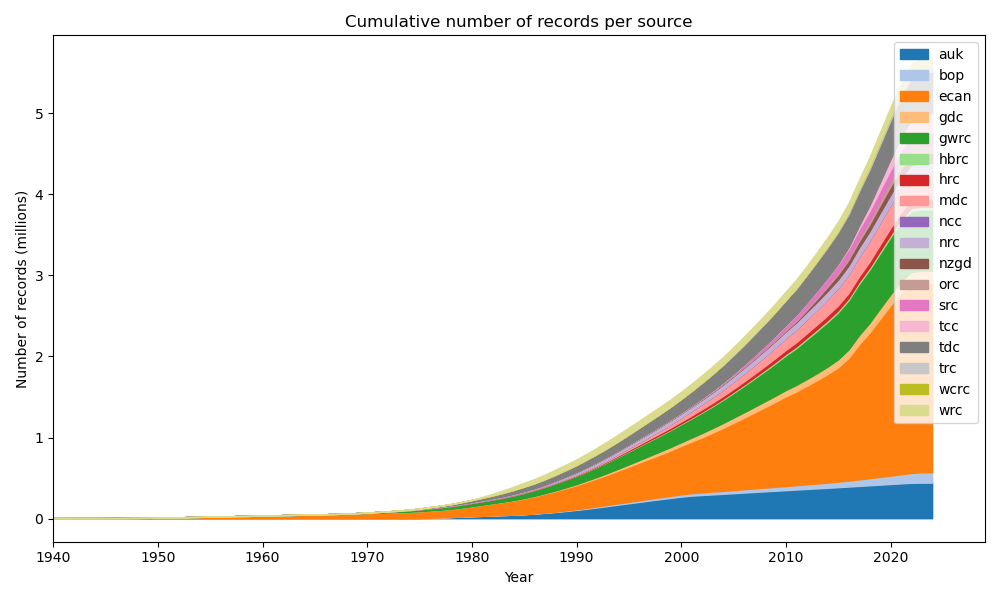
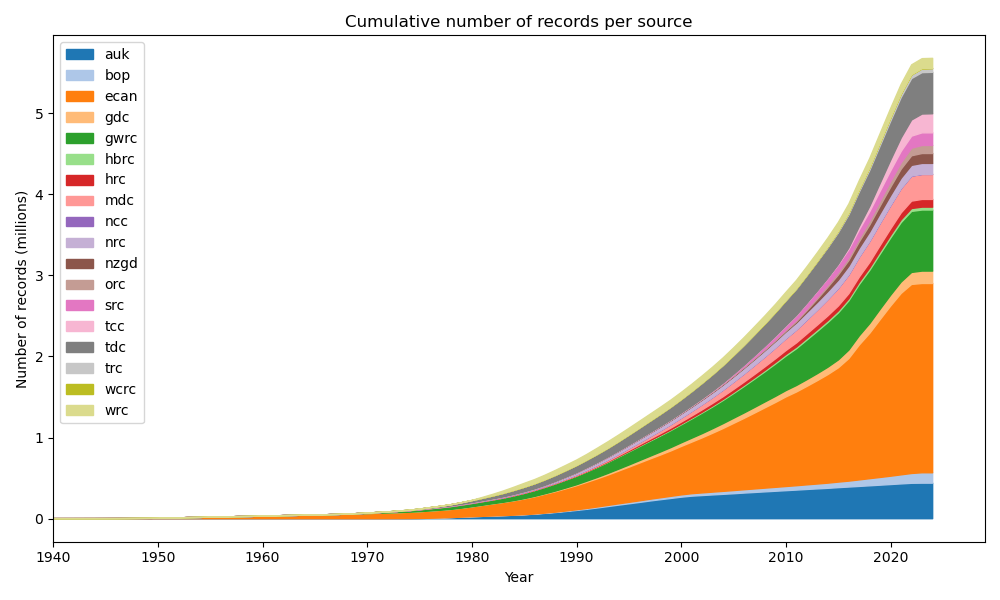
manage review comments on figures

Changed region(s): [[0.868, 0.06, 0.992, 0.72], [0.062, 0.06, 0.155, 0.72]]

diff --git a/build_dataset/update_technial_note/update_tech_note.py b/build_dataset/update_technial_note/update_tech_note.py
@@ -14,7 +14,7 @@ docs_build_dir = Path(__file__).parents[2].joinpath('docs_build')
 assert docs_build_dir.exists(), f'{docs_build_dir} does not exist. should not get here'
 
 
-def update_tech_note(wl_data, metadata, base_outdir=docs_build_dir):
+def update_tech_note(wl_data, metadata, base_outdir=docs_build_dir, figs_only=False):
     """
     Update the technical note with the latest data statistics
     :param wl_data:
@@ -27,33 +27,40 @@ def update_tech_note(wl_data, metadata, base_outdir=docs_build_dir):
     base_outdir.joinpath('_static').mkdir(exist_ok=True)
     with open(base_outdir.joinpath('last_updated.rst'), 'w') as f:
         f.write(f':Data Last updated: {datetime.date.today().isoformat()}')
+    if not figs_only:
+        print('updating tables')
+        # depth to water statistics
+        hist_sd(outdir=base_outdir, wd=wl_data, md=metadata)
+        exceedance_prob(outdir=base_outdir, wd=wl_data, md=metadata)
 
-    # depth to water statistics
-    hist_sd(outdir=base_outdir, wd=wl_data, md=metadata)
-    exceedance_prob(outdir=base_outdir, wd=wl_data, md=metadata)
+        # summary data
+        overview_table, by_source_table = get_data_stats(wl_data, metadata)
+        for k in overview_table.index:
+            if pd.api.types.is_integer(overview_table.loc[k]):
+                overview_table.loc[k] = f'{overview_table.loc[k]:,d}'
+            elif pd.api.types.is_float(overview_table.loc[k]):
+                overview_table.loc[k] = f'{overview_table.loc[k]:,.2f}'
 
-    # summary data
-    overview_table, by_source_table = get_data_stats(wl_data, metadata)
-    for k in overview_table.index:
-        if pd.api.types.is_integer(overview_table.loc[k]):
-            overview_table.loc[k] = f'{overview_table.loc[k]:,d}'
-        elif pd.api.types.is_float(overview_table.loc[k]):
-            overview_table.loc[k] = f'{overview_table.loc[k]:,.2f}'
-
-    write_rst_table_with_tabulate(overview_table, base_outdir.joinpath('tables/full_dataset_summary.rst'),
-                                  'Overview of the dataset')
-    write_rst_table_with_tabulate(by_source_table, base_outdir.joinpath('tables/by_source_summary.rst'),
-                                  'Data summary by source')
+        write_rst_table_with_tabulate(overview_table, base_outdir.joinpath('tables/full_dataset_summary.rst'),
+                                      'Overview of the dataset')
+        write_rst_table_with_tabulate(by_source_table, base_outdir.joinpath('tables/by_source_summary.rst'),
+                                      'Data summary by source')
+    print('creating running totals')
     running_totals = get_running_totals(wl_data)
     for nm, fig in running_totals.items():
         fig.savefig(base_outdir.joinpath('_static', f'{nm}.png'))
         plt.close(fig)
+    print('saved running totals, now creating density and points in dist')
 
-    density_calc_sites(metadata)
+    if not figs_only:
+        density_calc_sites(metadata)
+        npoints_in_dist_calc_sites(metadata)
+
     plot_density()
 
-    npoints_in_dist_calc_sites(metadata)
+    print('saved density, now creating points in dist')
     plot_points_in_dist()
+    print('saved points in dist')
 
 
 if __name__ == '__main__':
@@ -61,6 +68,7 @@ if __name__ == '__main__':
     from komanawa.nz_depth_to_water.get_data import get_nz_depth_to_water
 
     water_level_data, metadata = get_nz_depth_to_water()
-    update_tech_note(water_level_data, metadata)
+    print('update tech note')
+    update_tech_note(water_level_data, metadata, figs_only=True)
 
     pass

diff --git a/build_dataset/update_technial_note/data_stats.py b/build_dataset/update_technial_note/data_stats.py
@@ -13,6 +13,7 @@ import matplotlib.pyplot as plt
 from pathlib import Path
 import warnings
 
+from matplotlib.ticker import StrMethodFormatter
 
 def load_data():
     wd = pd.read_hdf(project_dir.joinpath('Data/gwl_data/final_water_data.hdf'), 'wl_store_key')
@@ -208,14 +209,15 @@ def get_running_totals(wd):
     outfigs = {}
     fig, ax = plt.subplots(figsize=(10, 6))
     # plot the cumulative number of records
-    ax.plot(cumulative_n_records['year'], cumulative_n_records['depth_to_water'] * 1e-6, label='Cumulative n records',
+    ax.plot(cumulative_n_records['year'], cumulative_n_records['depth_to_water'] * 1e-6, label='Cumulative N records',
             ls='--',
             color='b')
     ax2 = ax.twinx()
-    ax2.plot(cumulative_n_sites['year'], cumulative_n_sites['site_name'], label='Cumulative n sites', ls='-', color='r')
+    ax2.plot(cumulative_n_sites['year'], cumulative_n_sites['site_name'], label='Cumulative N sites', ls='-', color='r')
     ax.set_xlabel('Year')
-    ax.set_ylabel('Cumulative n records (millions)')
-    ax2.set_ylabel('Cumulative n sites')
+    ax.set_ylabel('Cumulative N records (millions)')
+    ax2.set_ylabel('Cumulative N sites')
+    ax2.yaxis.set_major_formatter(StrMethodFormatter('{x:,.0f}'))
     handles, labels = ax.get_legend_handles_labels()
     handles2, labels2 = ax2.get_legend_handles_labels()
     ax.legend(handles + handles2, labels + labels2, loc='upper left')
@@ -239,8 +241,9 @@ def get_running_totals(wd):
     ax.set_xlabel('Year')
     ax.set_xlim(1940, years[-1] + 5)
     ax.set_ylabel('Number of records (millions)')
+    ax.yaxis.set_major_formatter(StrMethodFormatter('{x:,.0f}'))
     ax.set_title('Cumulative number of records per source')
-    ax.legend()
+    ax.legend(loc='upper left')
     fig.tight_layout()
     outfigs['cumulative_n_records_per_source'] = fig
 
@@ -254,8 +257,9 @@ def get_running_totals(wd):
         prev += source_data['unique_sites']
     ax.set_xlabel('Year')
     ax.set_ylabel('Number of sites')
+    ax.yaxis.set_major_formatter(StrMethodFormatter('{x:,.0f}'))
     ax.set_title('Cumulative number of sites per source')
-    ax.legend()
+    ax.legend(loc='upper left')
     ax.set_xlim(1940, years[-1] + 5)
     fig.tight_layout()
     outfigs['cumulative_n_sites_per_source'] = fig

diff --git a/src/komanawa/nz_depth_to_water/density_grid.py b/src/komanawa/nz_depth_to_water/density_grid.py
@@ -5,7 +5,7 @@ on: 7/15/24
 from pathlib import Path
 import numpy as np
 import matplotlib.pyplot as plt
-
+import matplotlib.ticker as ticker
 
 class DensityGrid():
     shape = (1476, 1003)
@@ -112,8 +112,13 @@ class DensityGrid():
                                  cmap=cmap, vmin=vmin, vmax=vmax,
                                  alpha=0.5, edgecolors=edgecolors, linewidth=linewidth, antialiased=True
                                  )
+        def fmt(x, pos):
+            if x<1:
+                return f'{x:.2f}'
+            else:
+                return f'{x:,.0f}'
 
         fig.colorbar(temp, ax=ax, orientation='horizontal', fraction=0.05, pad=0.05,
-                     label=cbarlab)
+                     label=cbarlab, format=ticker.FuncFormatter(fmt))
         fig.tight_layout()
         return fig, ax

diff --git a/build_dataset/update_technial_note/statistical_measures_of_dwt_data.py b/build_dataset/update_technial_note/statistical_measures_of_dwt_data.py
@@ -414,8 +414,7 @@ def plot_density():
 
         for island in ['both', 'n', 's']:
             fig, ax = dg.plot_density(data / 1000, island, vmin=0.1, vmax=None, log=True,
-                                      cbarlab=f'Distance to nearest {npoints} sites (km)')
-            plt.show()
+                                      cbarlab=f'Distance to nearest {npoints} site(s) (km)')
             fig.savefig(figdir.joinpath(f'data_coverage_{npoints}{island}.png'))
 
 

diff --git a/docs_build/supporting_docs/Technial_note.rst b/docs_build/supporting_docs/Technial_note.rst
@@ -60,26 +60,36 @@ The data was processed using Python. The scripts used to process the data are av
 The systematic approach to the data processing was as follows:
 
 - Ingestion and Preliminary Cleaning
+
     - Individual scripts were developed for each council to cater to the unique formats of the datasets provided.
     - GWL data, alongside metadata, were ingested from two primary sources: direct council submissions and the Tethys platform, accessed via a Python API call.
     - Preliminary cleaning involved standardising data formats, renaming columns for consistency, and excising superfluous columns.
+
 - Data Standardisation and Transformation
+
     - The data was processed to ensure the presence of both depth-to-water and elevation measurements. In instances where elevation data was absent, LiDAR data (Sourced from the LINZ Data Service and licensed for reuse under the CC BY 4.0 licence) was utilised to ascertain site elevation.
     - Anomalies such as negative values or readings beyond expected ranges were examined and rectified. Erroneous not an number (NaN) values were also purged from the dataset.
     - All spatial data were transformed into the NZGD 2000 Transverse Mercator projection and NZVD2016 vertical datum.
     - The data was resampled to a consistent temporal resolution, ergo standardised to daily intervals.
     - The data was checked for any duplicates and these were removed.
+
 - Metadata Synthesis and Alignment
+
     - Metadata processing paralleled the data cleaning steps, with additional emphasis on ensuring alignment between site names in the metadata and the GWL data.
     - The metadata schema encapsulated a comprehensive array of fields, ranging from well names and depths to spatial coordinates and screening details.
     - Groundwater elevations were derived from ground elevation plus collar height (where available) minus depth to water, except for instances where councils provided elevations in NZVD2016.
+
 - Data Aggregation and Quality Assurance
+
     - The processed data from various sources were coalesced into a singular dataset. This aggregation involved strategic merging and deduplication, governed by predefined rules to ensure data integrity.
     - Quality control measures, including data and metadata checks, were instituted to uphold accuracy and reliability.
+
 - Storing and Accessing Processed Data
     - The processed GWL data and metadata were systematically stored in an HDF5 datastore, facilitating ease of access and analysis.
     - Provisions were made to recalculate and update the stored data as necessary, ensuring the database can remain current and reflective of the most recent submissions.
+
 - Assumptions and Usage Considerations
+
     - A fundamental assumption is that depth-to-groundwater measurements below the ground surface are positive, with negative readings indicative of artesian conditions. This necessitated sign adjustments and validation against council records.
     - In cases where well depth information was unavailable, wells were presumed shallow rather than being excluded from the dataset; however the well depth is still flagged as a NaN value.
     - Specific regional peculiarities, such as the assumed + 100 m offset for coastal groundwater elevations provided by the Otago Regional Council, were corrected to NZVD2016.
@@ -90,23 +100,25 @@ Statistical Analysis of Water Table Variation
 As previously noted, this National Depth to Water Dataset was compiled to support the Future Coasts Aotearoa research programme, where it is used following additional processing to produce maps of steady-state depth to water (DTW) probability at a national scale. The ultimate goal is the identification of areas at risk of groundwater inundation under relative sea-level rise. As noted, the dataset is also available for other uses, and we encourage researchers to use the dataset for a wide range of applications.
 As an example of some of the utility of this dataset, we present some simple statistical analyses below to uncover any prominent traits and generally describe the data. The steps were:
 
--  Categorisation by Depth:
-    - The dataset was divided into three depth categories:
-        - Category 1: Sites with depths less than 10 meters.
-        - Category 2: Sites with depths between 10 and 30 meters.
-        - Category 3: Sites with depths greater than 30 meters.
+-  Categorisation by Depth. The dataset was divided into three depth categories:
+
+    - Category 1: Sites with depths less than 10 meters.
+    - Category 2: Sites with depths between 10 and 30 meters.
+    - Category 3: Sites with depths greater than 30 meters.
 
 - Sub-setting by Number of Readings:
+
     - Only sites with more than 30 readings were included. This threshold was chosen as a rule of thumb to ensure a reliable calculation of the standard deviation.
 
-- Statistical Calculations:
-    - For each site in the subset, the following statistical measures were computed:
-        - Mean: The average depth to water.
-        - Standard Deviation: A measure of the variation in water levels.
-        - Minimum: The lowest recorded water level.
-        - Maximum: The highest recorded water level.
+- Statistical Calculations. For each site in the subset, the following statistical measures were computed:
+
+    - Mean: The average depth to water.
+    - Standard Deviation: A measure of the variation in water levels.
+    - Minimum: The lowest recorded water level.
+    - Maximum: The highest recorded water level.
 
 - Grouping by Mean DTW:
+
     - The categories were analysed prescribed with breakpoints of: 0.1, 0.5, 1, 1.5, 2, 3, 5, 10, 15, 20, 30, 50, 75, 100 meters (while these breakpoints are for illustrative purposes only, the shallower categories correspond with infrastructure and building foundations assessed in the Future Coasts Aotearoa research programme).
     - The data was further grouped by the mean DTW to analyse combined statistics across different groups. This grouping allows for a comparison of water level characteristics across sites with similar mean DTW values.
 
@@ -154,6 +166,7 @@ As with any dataset, there are uncertainties in the data. The primary sources of
 
     - Measurement method variability: Different councils and organisations use different methods to measure groundwater levels, which can lead to variability in the data.
     - Data quality inconsistencies: The quality of data and associated metadata varies significantly across different sources. This includes:
+
         - Potential data entry errors from original sources
         - Varying quality of metadata provided with the data
         - Differences in measurement data quality (e.g., data collected by drillers immediately upon well completion versus as part of a regular monitoring programme)
@@ -198,6 +211,7 @@ Potential Uses of the Dataset
 -------------------------------
 
 Beyond the original scope we see the dataset as having a wide range of potential uses, including but not limited to:
+
     - Consent applications and engineering design: Provides historical context across regions. Supports consistent decision-making for regulators and developers.
     - Model validation and research: Enables cross-regional studies and comparison. Improves national predictive models.
     - Climate change and hazard assessments: Allows analysis of long-term trends nationwide. Aids in identifying groundwater-related risks.
@@ -237,6 +251,7 @@ Additionally, we would like to commend the NZGD for their work in providing a na
 #. Included a field to specify whether measurements at a point are relative to the average surrounding land surface or taken in foundation excavations.
 #. Include and possibly mandate the provision of GPS elevation data for the depth to water measuring point and/or a measured distance between the measuring point and the general surrounding ground surface (e.g. depth of foundation excavation).
 #. As discussed above the NZGD would also benefit from:
+
     #. A public API for data access.
     #. A publicly visible mechanism for users to report issues, inconsistencies, and concerns with the data.
 
@@ -296,14 +311,22 @@ This work was made possible by the Future Coasts Aotearoa programme, funded by t
 References
 =============
 Baddock E, 2019. Water Level Field Measurement Standard Version: 3.0.0. National Environmental Monitoring Standard. Date of Issue: July 2019
+
 GNS Science. (2022). National Groundwater Monitoring Programme (NGMP) [Data set]. GNS Science.
+
 Hills Laboratories. 2024. Hilltop Software [Computer software].
+
 Kittridge M. 2023. Tethys: A Python package for accessing geospatial time series data (Version 4.5.15) [Computer software]. https://github.com/tethys-ts/tethysts
+
 New Zealand Geotechnical Database. (n.d.). Retrieved [3-9-2024], from https://www.nzgd.org.nz/
+
 National Institute of Water and Atmospheric Research (2021). Future Coasts Aotearoa Project Outline. National Institute of Water and Atmospheric Research.
+
 Parliamentary Commissioner for the Environment. 2019. Focusing Aotearoa New Zealand’s
 environmental reporting system. November 2019. Wellington, New Zealand: Parliamentary
+
 Reinecke R., Wachholz, A., Mehl, S., Foglia, L., Niemann, C., & Döll, P. 2020. Importance of Spatial Resolution in Global Groundwater Modeling. Groundwater, 58(3), 363–376. https://doi.org/10.1111/gwat.12996
+
 World Meteorological Organization. 2023. State of Global Water Resources report 2022 (WMO-No. 1333). WMO.
 
 

diff --git a/docs_build/last_updated.rst b/docs_build/last_updated.rst
@@ -1,1 +1,1 @@
-:Data Last updated: 2024-07-16
+:Data Last updated: 2024-09-19
